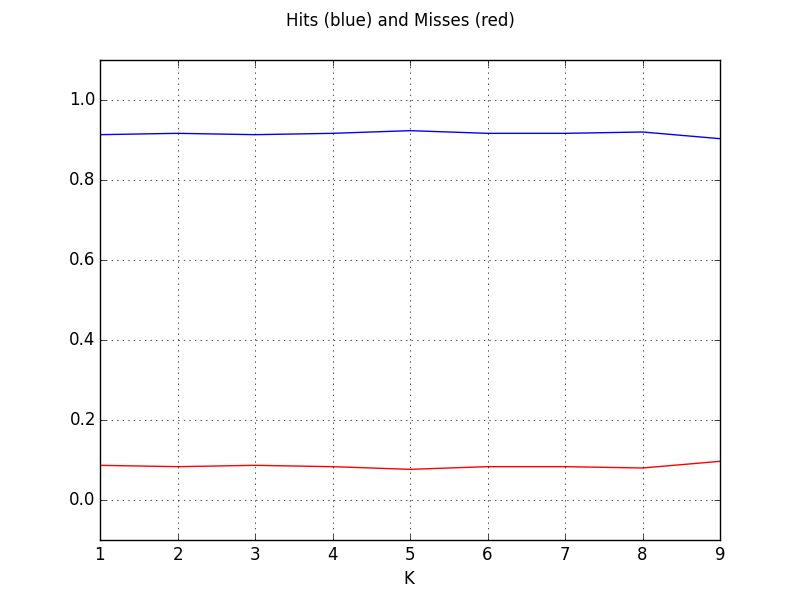
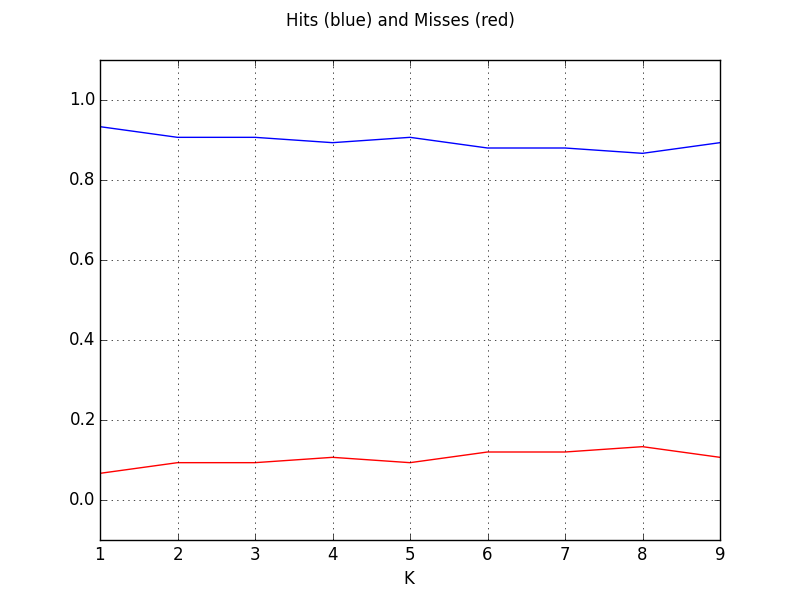
Alterando o kNN.py. Fazendo a classificação correta agora.

Changed region(s): [[0.125, 0.21, 0.9062, 0.27], [0.125, 0.72, 0.8125, 0.81], [0.8125, 0.75, 0.9062, 0.78]]

diff --git a/src/kNN.py b/src/kNN.py
@@ -12,75 +12,71 @@ def kNN(x, k, data):
 
     return indices
 
-def prob_kNN(k, data, classes):
-    """Returns two arrays of conditional probabilities for classes 1 and 2, given
-    all 300 samples (so, each array has length 300). Receives the k (>= 1), the
-    set of samples and the class for each sample.
+def classify(train_data, test_data, train_classes, test_classes):
+    """Classifies a dataset given the training data and classes and the expected
+    classes.
     """
-    P_w1_given_x = list()
-    P_w2_given_x = list()
+    P1 = np.zeros(len(test_classes))
+    P2 = np.zeros(len(test_classes))
+    classified = np.zeros(len(test_classes))
+    i = 0
 
-    for x in data:
-        indices = kNN(x, k, data)
-        neighbours = data[indices]
-        neighbours_classes = classes[indices]
+    for x in test_data:
+        indices = kNN(x, k, train_data)
+        neighbours = train_data[indices]
+        neighbours_classes = train_classes[indices]
 
         k1 = len(neighbours_classes[neighbours_classes == 1])
-        P_w1_given_xk = k1/k
         k2 = len(neighbours_classes[neighbours_classes == 2])
-        P_w2_given_xk = k2/k
+        P1[i] = k1 / k
+        P2[i] = k2 / k
+        classified[i] = 2 if (k2 > k1) else 1
+        i = i + 1
 
-        P_w1_given_x.append(P_w1_given_xk)
-        P_w2_given_x.append(P_w2_given_xk)
-
-    P_w1_given_x = np.array(P_w1_given_x)
-    P_w2_given_x = np.array(P_w2_given_x)
-
-    return (P_w1_given_x, P_w2_given_x)
-
-def classify(data, classes, P_w1_given_x, P_w2_given_x):
-    """Classifies a data set given the data, the classes and the conditional
-    probabilities.
-    """
-    c = P_w1_given_x - P_w2_given_x
-    c[c >= 0] = 1
-    c[c < 0] = 2
-    equal = (c == classes)
+    equal = (classified == test_classes)
     numequal = len(equal[equal == True])
-    hits = numequal / len(data)
+    hits = numequal / len(test_classes)
 
-    return (c, hits)
+    return (hits, P1, P2, classified)
 
 
 if __name__ == '__main__':
     from bases import gendata, readdata
     import matplotlib.pyplot as plt
 
-    data = readdata(shuffle=False)
-    classes = np.ones(200, np.int8)
-    classes = np.concatenate((classes, 2*np.ones(100, np.int8)))
+    (data1_1, data1_2, data2) = readdata(False, False)
+    train_data = np.concatenate((data1_1[ : 75], data1_2[ : 75], data2[ : 75]))
+    train_classes = np.concatenate((np.ones(150, np.int8), 2*np.ones(75, np.int8)))
+    test_data = np.concatenate((data1_1[75 : ], data1_2[75 : ], data2[75 : ]))
+    test_classes = np.concatenate((np.ones(50, np.int8), 2*np.ones(25, np.int8)))
+
     num_ks = 9
     hits = np.zeros(num_ks)
+    P1 = np.zeros((num_ks, len(test_classes)))
+    P2 = np.zeros((num_ks, len(test_classes)))
+    classified = np.zeros((num_ks, len(test_classes)))
 
     for k in range(1, num_ks + 1):
-        (P_w1_given_x ,P_w2_given_x) = prob_kNN(k, data, classes)
-        (_, hits[k - 1]) = classify(data, classes, P_w1_given_x, P_w2_given_x)
+        (hits[k - 1], P1[k - 1], P2[k - 1], classified[k - 1]) = classify(train_data, test_data,
+                                                       train_classes, test_classes)
 
-        # plot P(w1|x)
         fig = plt.figure()
         fig.suptitle('P(w1|x)\nk-NN, k = %d' % k)
         plt.grid(True)
-        plt.fill_between(np.linspace(1, 300, 300), P_w1_given_x, color='blue')
-        plt.ylim(-0.1,1.1)
-        plt.savefig('outputs/kNN-k%d-P_w1_given_x.png' % k)
+        plt.fill_between(np.linspace(1, 75, 75), P1[k - 1], color='blue')
+        plt.plot(np.linspace(1, 75, 75), classified[k - 1], 'g.')
+        plt.xlim(1, 75)
+        plt.ylim(-0.1,2.1)
+        plt.savefig('outputs/kNN-k%d-P1.png' % k)
 
-        # plot P(w2|x)
         fig = plt.figure()
         fig.suptitle('P(w2|x)\nk-NN, k = %d' % k)
         plt.grid(True)
-        plt.fill_between(np.linspace(1, 300, 300), P_w2_given_x, color='red')
-        plt.ylim(-0.1,1.1)
-        plt.savefig('outputs/kNN-k%d-P_w2_given_x.png' % k)
+        plt.fill_between(np.linspace(1, 75, 75), P2[k - 1], color='red')
+        plt.plot(np.linspace(1, 75, 75), classified[k - 1], 'g.')
+        plt.xlim(1, 75)
+        plt.ylim(-0.1,2.1)
+        plt.savefig('outputs/kNN-k%d-P2.png' % k)
 
     # plot hits and misses
     fig = plt.figure()
@@ -92,3 +88,5 @@ if __name__ == '__main__':
     plt.ylim(-0.1,1.1)
     plt.savefig('outputs/kNN-hits-and-misses.png')
     print('hits:', hits)
+
+    plt.show()
